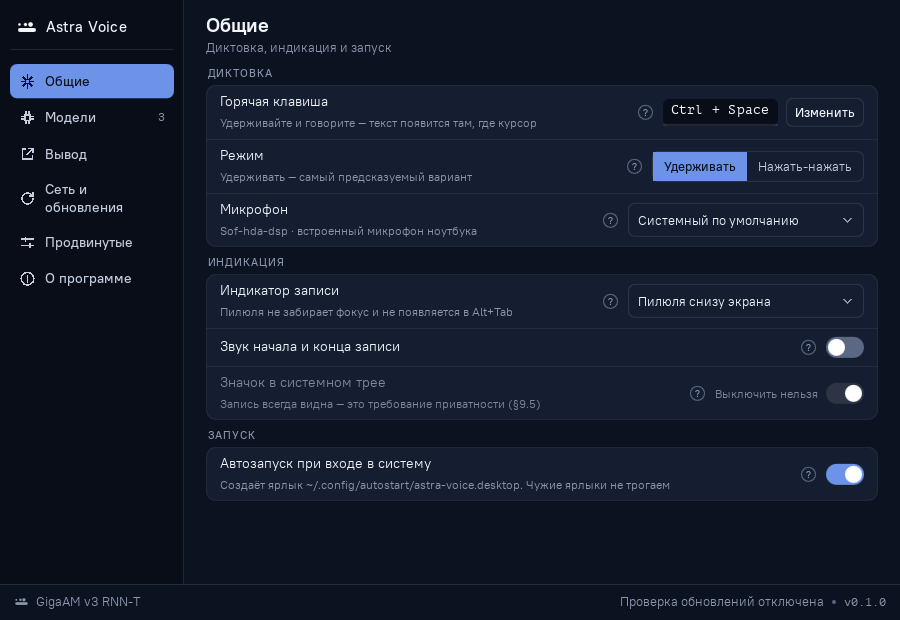
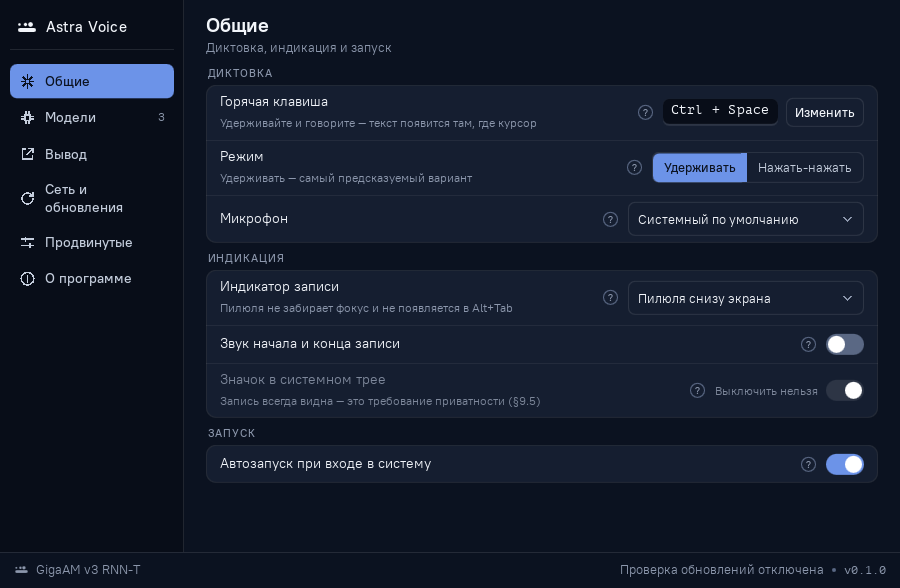
M1: дефекты первого живого показа — скругления чипа клавиши и сегмента, фокус-кольцо сайдбара только для клавиатуры, подписи «Микрофон»/«Автозапуск» убраны (тексты простым языком); PRD экран 5; журнал

diff --git a/qml/components/AvSegmented.qml b/qml/components/AvSegmented.qml
@@ -1,5 +1,7 @@
-// Сегментированный переключатель — design/spec.md §4.3.
-// Высота 30,8; активный сегмент — фон primary; стрелки ← → переключают, кольцо фокуса на всём контроле.
+// Сегментированный переключатель — design/spec.md §4.3, макет `.seg` (_base.py:97).
+// CSS даёт `border-radius:7px; overflow:hidden` — заливка активного сегмента обрезается
+// ПО СКРУГЛЕНИЮ. В QML `clip` режет по прямоугольнику, поэтому крайние сегменты скругляются
+// сами (радиус рамки минус её толщина), а внутренний край выпрямляется накладкой того же цвета.
 import QtQuick 2.15
 import ".."
 
@@ -23,6 +25,7 @@ FocusScope {
         color: Theme.bgSurface
         border.width: Theme.segmentedBorder
         border.color: Theme.border
+        antialiasing: true
         clip: true
         implicitWidth: row.implicitWidth + Theme.segmentedBorder * 2
 
@@ -34,13 +37,19 @@ FocusScope {
                 model: root.options
 
                 Rectangle {
+                    id: segment
+
                     required property int index
                     required property string modelData
 
                     readonly property bool current: index === root.currentIndex
+                    readonly property bool first: index === 0
+                    readonly property bool last: index === root.options.length - 1
 
                     width: text.implicitWidth + Theme.segmentedItemPaddingX * 2
                     height: Theme.segmentedItemH
+                    radius: (first || last) ? Theme.segmentedRadius - Theme.segmentedBorder : 0
+                    antialiasing: true
                     color: current ? Theme.primary
                          : (mouse.containsMouse ? Theme.stateHoverOnSurface : "transparent")
 
@@ -52,16 +61,25 @@ FocusScope {
                         }
                     }
 
+                    // Внутренний край сегмента остаётся прямым — скругляется только внешний.
+                    Rectangle {
+                        width: segment.radius
+                        height: parent.height
+                        x: segment.first ? parent.width - width : 0
+                        color: parent.color
+                        visible: segment.radius > 0 && !(segment.first && segment.last)
+                    }
+
                     Text {
                         id: text
                         anchors.centerIn: parent
-                        text: parent.modelData
+                        text: segment.modelData
                         font.family: Theme.fontUi
                         font.pixelSize: Theme.fontSegmentedSize
-                        font.weight: parent.current ? Font.Medium : Font.Normal
+                        font.weight: segment.current ? Font.Medium : Font.Normal
                         renderType: Text.NativeRendering
                         color: !root.enabled ? Theme.fgDisabled
-                             : (parent.current ? Theme.primaryFg : Theme.segmentedItemFg)
+                             : (segment.current ? Theme.primaryFg : Theme.segmentedItemFg)
                     }
 
                     MouseArea {
@@ -69,10 +87,8 @@ FocusScope {
                         anchors.fill: parent
                         hoverEnabled: true
                         enabled: root.enabled
-                        onClicked: {
-                            root.currentIndex = parent.index;
-                            root.forceActiveFocus();
-                        }
+                        // Фокус мышью не берём: кольцо фокуса — только для клавиатуры (§1.3).
+                        onClicked: root.currentIndex = segment.index
                     }
                 }
             }
@@ -86,6 +102,7 @@ FocusScope {
         color: "transparent"
         border.width: Theme.focusWidth
         border.color: Theme.stateFocusRing
+        antialiasing: true
         visible: root.activeFocus
     }
 }

diff --git a/qml/components/KeyChip.qml b/qml/components/KeyChip.qml
@@ -1,5 +1,8 @@
-// Чип-клавиша («Ctrl + Space») — design/spec.md §4.7.
-// Нижняя граница 2 px читается как физическая клавиша; шрифт — PT Mono (сквозное правило 5).
+// Чип-клавиша («Ctrl + Space») — design/spec.md §4.7, макет `.key` (_base.py:100).
+// CSS: border-radius 6 + border-bottom 2 px — нижняя грань читается как физическая клавиша
+// и СКРУГЛЯЕТСЯ вместе с корпусом. В QML это два скруглённых слоя: нижний цвета `border`,
+// верхний — фон чипа с отступом снизу на толщину грани (рисовать полоску поверх нельзя:
+// она срезала бы нижние углы, дефект «нет скруглений» с живого прогона).
 import QtQuick 2.15
 import ".."
 
@@ -11,7 +14,16 @@ Rectangle {
     implicitHeight: Theme.hotkeyChipHeight
     implicitWidth: label.implicitWidth + Theme.hotkeyChipPaddingX * 2
     radius: Theme.hotkeyChipRadius
-    color: Theme.hotkeyChipBg
+    color: Theme.border
+    antialiasing: true
+
+    Rectangle {
+        anchors.fill: parent
+        anchors.bottomMargin: Theme.borderHotkeyKeyBottom
+        radius: root.radius
+        color: Theme.hotkeyChipBg
+        antialiasing: true
+    }
 
     Text {
         id: label
@@ -23,15 +35,5 @@ Rectangle {
         renderType: Text.NativeRendering
         anchors.horizontalCenter: parent.horizontalCenter
         y: Theme.hotkeyChipPaddingTop
-    }
-
-    // Нижняя грань клавиши: 2 px `border` (component.hotkey-chip.border-bottom).
-    Rectangle {
-        anchors.left: parent.left
-        anchors.right: parent.right
-        anchors.bottom: parent.bottom
-        height: Theme.borderHotkeyKeyBottom
-        radius: root.radius
-        color: Theme.border
     }
 }

diff --git a/qml/components/AvSelect.qml b/qml/components/AvSelect.qml
@@ -35,6 +35,7 @@ ComboBox {
 
     background: Rectangle {
         radius: Theme.selectRadius
+        antialiasing: true
         color: control.enabled ? Theme.bgSurface : Theme.bgSurface2
         border.width: Theme.fieldBorder
         border.color: control.popup.visible ? Theme.selectOpenState : Theme.border
@@ -46,6 +47,7 @@ ComboBox {
             color: "transparent"
             border.width: Theme.focusWidth
             border.color: Theme.stateFocusRing
+            antialiasing: true
             visible: control.visualFocus
         }
     }
@@ -73,6 +75,7 @@ ComboBox {
 
         background: Rectangle {
             radius: Theme.popoverItemRadius
+            antialiasing: true
             color: parent.index === control.currentIndex ? Theme.selectionBg
                  : (parent.hovered ? Theme.stateHoverOnSurface : "transparent")
         }
@@ -117,6 +120,7 @@ ComboBox {
 
         background: Rectangle {
             radius: Theme.popoverRadius
+            antialiasing: true
             color: Theme.bgSurface
             border.width: Theme.fieldBorder
             border.color: Theme.border

diff --git a/qml/sections/General.qml b/qml/sections/General.qml
@@ -47,8 +47,9 @@ Column {
 
         SettingRow {
             width: parent.width
+            // Пояснения нет: техническое имя карты пользователю не нужно.
+            // В M3 сюда пойдёт только человекочитаемое device.description из PulseAudio.
             label: qsTr("Микрофон")
-            sub: qsTr("Sof-hda-dsp · встроенный микрофон ноутбука")
 
             AvSelect {
                 Layout.preferredWidth: 236  // §4.4: типовая ширина списка в строке настройки
@@ -120,7 +121,6 @@ Column {
             width: parent.width
             divider: false
             label: qsTr("Автозапуск при входе в систему")
-            sub: qsTr("Создаёт ярлык ~/.config/autostart/astra-voice.desktop. Чужие ярлыки не трогаем")
             toggle: autostartToggle
 
             AvToggle {

diff --git a/qml/components/SidebarItem.qml b/qml/components/SidebarItem.qml
@@ -30,6 +30,7 @@ FocusScope {
         id: bg
         anchors.fill: parent
         radius: Theme.sidebarItemRadius
+        antialiasing: true
         color: {
             if (root.current)
                 return Theme.primary;
@@ -94,6 +95,7 @@ FocusScope {
         color: "transparent"
         border.width: Theme.focusWidth
         border.color: Theme.stateFocusRing
+        antialiasing: true
         visible: root.activeFocus
     }
 
@@ -101,9 +103,8 @@ FocusScope {
         id: mouse
         anchors.fill: parent
         hoverEnabled: true
-        onClicked: {
-            root.forceActiveFocus();
-            root.activated();
-        }
+        // Фокус мышью НЕ берём: активный пункт — только заливка primary со скруглением
+        // (§1.3, референс), кольцо фокуса появляется лишь при переходе клавиатурой (Tab).
+        onClicked: root.activated()
     }
 }

diff --git a/qml/components/SettingRow.qml b/qml/components/SettingRow.qml
@@ -108,6 +108,7 @@ Item {
             Layout.preferredHeight: Theme.hintSize
             Layout.alignment: Qt.AlignVCenter
             radius: Theme.hintSize / 2
+            antialiasing: true
             color: "transparent"
             border.width: Theme.borderHairline
             border.color: Theme.fgFaint
@@ -130,6 +131,7 @@ Item {
             Layout.preferredHeight: Theme.badgeHeight
             Layout.alignment: Qt.AlignVCenter
             radius: Theme.lockBadgeRadius
+            antialiasing: true
             color: Theme.lockBadgeBg
             visible: root.locked
 

diff --git a/qml/components/AvButton.qml b/qml/components/AvButton.qml
@@ -31,6 +31,7 @@ Button {
 
     background: Rectangle {
         radius: Theme.buttonRadius
+        antialiasing: true
         border.width: control.ghost ? 0 : Theme.buttonBorder
         border.color: control.enabled ? (control.primary ? Theme.primary : Theme.border) : Theme.border
         color: {
@@ -62,6 +63,7 @@ Button {
             color: "transparent"
             border.width: Theme.focusWidth
             border.color: Theme.stateFocusRing
+            antialiasing: true
             visible: control.visualFocus
         }
     }

diff --git a/qml/components/AvToggle.qml b/qml/components/AvToggle.qml
@@ -19,6 +19,7 @@ Switch {
         width: Theme.toggleW
         height: Theme.toggleH
         radius: Theme.toggleRadius
+        antialiasing: true
         color: {
             if (control.locked)
                 return Theme.toggleLockedBg;
@@ -60,6 +61,7 @@ Switch {
             color: "transparent"
             border.width: Theme.focusWidth
             border.color: Theme.stateFocusRing
+            antialiasing: true
             visible: control.visualFocus
         }
     }

diff --git a/qml/components/SettingGroup.qml b/qml/components/SettingGroup.qml
@@ -35,6 +35,7 @@ Column {
         color: Theme.bgSurface
         border.width: Theme.cardBorder
         border.color: Theme.border
+        antialiasing: true
         clip: true
 
         Column {

diff --git a/PRD.md b/PRD.md
@@ -122,7 +122,7 @@ Discovery только техническое.
 1. Пакет `astra-voice_X.Y.Z_amd64.deb` ставится штатно (`apt install ./…`); зависимости — только из репозиториев Astra 1.8 плюс вендоренные python-пакеты внутри пакета; `postinst` **не выходит в сеть** и не запускает GUI.
 2. Модели в пакет не входят. Пакет без моделей ≤ 80 МБ (допущение, проверить прототипом).
 3. Онбординг показывается, если нет ни одной установленной модели **или** не завершён флаг `onboarding_done`. Возврат — из настроек «Пройти настройку заново».
-4. Экраны: **(1) Приветствие и сеть** — язык интерфейса (ru/en, авто по `LANG`) и два тумблера «Проверять обновления утилиты» / «Проверять обновления моделей» (подпись: не чаще раза в сутки; хосты huggingface.co, github.com). **Оба тумблера пусты по умолчанию во всех профилях** — пользователь включает сам; пока не включил — утилита в сеть не выходит (кроме явного «Скачать» на экране 2). Требования заказчика №1/№4 (проверка при запуске) действуют после явного включения. Если `policy.conf` задаёт `offline=true`/`profile=secure`, тумблеры показаны заблокированными («Задано администратором»). **(2) Модель** — рекомендованная карточка сверху (GigaAM v3 RNN-T), остальные по размеру; кнопки «Скачать» (показывает хост и объём) и «Установить из файла/папки…»; шаг нельзя пропустить без модели. **(3) Горячая клавиша** — предзаполнена **`Ctrl+Space`, режим «удерживать» (push-to-talk)**; поле захвата другой комбинации, переключатель «удерживать / нажать-нажать»; занятость проверяется живым `XGrabKey`-пробником **до** сохранения (F2.2): конфликт с шорткатом KDE — предупреждение с именем действия, не запрет; `BadAccess` от другой программы — сообщение и выбор из свободных комбинаций по F2-исключениям. **(3a) «Astra Voice заменяет Handy»** — показывается перед (3) только если обнаружен запущенный Handy (процесс `handy` или юнит `app-Handy@autostart.service`): объясняет, что обе утилиты держат `Ctrl+Space`, даёт инструкцию отключить хоткей в Handy или его автозапуск (ярлыки `handy.desktop`/`Handy.desktop` в `~/.config/autostart`), кнопки «Проверить снова» (повторный пробник) и «Пропустить»; в Handy утилита **ничего не меняет сама** — P1 (Should v0.1, Must v0.2; US-1.9). **(4) Проверка микрофона** — выбор устройства, живой индикатор уровня, кнопка «Сказать тестовую фразу» → распознанный текст на экране (без вставки). **(5) Автозапуск** — тумблер (по умолчанию включён, с текстом, что именно создаётся) и «Готово».
+4. Экраны: **(1) Приветствие и сеть** — язык интерфейса (ru/en, авто по `LANG`) и два тумблера «Проверять обновления утилиты» / «Проверять обновления моделей» (подпись: не чаще раза в сутки; хосты huggingface.co, github.com). **Оба тумблера пусты по умолчанию во всех профилях** — пользователь включает сам; пока не включил — утилита в сеть не выходит (кроме явного «Скачать» на экране 2). Требования заказчика №1/№4 (проверка при запуске) действуют после явного включения. Если `policy.conf` задаёт `offline=true`/`profile=secure`, тумблеры показаны заблокированными («Задано администратором»). **(2) Модель** — рекомендованная карточка сверху (GigaAM v3 RNN-T), остальные по размеру; кнопки «Скачать» (показывает хост и объём) и «Установить из файла/папки…»; шаг нельзя пропустить без модели. **(3) Горячая клавиша** — предзаполнена **`Ctrl+Space`, режим «удерживать» (push-to-talk)**; поле захвата другой комбинации, переключатель «удерживать / нажать-нажать»; занятость проверяется живым `XGrabKey`-пробником **до** сохранения (F2.2): конфликт с шорткатом KDE — предупреждение с именем действия, не запрет; `BadAccess` от другой программы — сообщение и выбор из свободных комбинаций по F2-исключениям. **(3a) «Astra Voice заменяет Handy»** — показывается перед (3) только если обнаружен запущенный Handy (процесс `handy` или юнит `app-Handy@autostart.service`): объясняет, что обе утилиты держат `Ctrl+Space`, даёт инструкцию отключить хоткей в Handy или его автозапуск (ярлыки `handy.desktop`/`Handy.desktop` в `~/.config/autostart`), кнопки «Проверить снова» (повторный пробник) и «Пропустить»; в Handy утилита **ничего не меняет сама** — P1 (Should v0.1, Must v0.2; US-1.9). **(4) Проверка микрофона** — выбор устройства, живой индикатор уровня, кнопка «Сказать тестовую фразу» → распознанный текст на экране (без вставки). **(5) Автозапуск** — тумблер (по умолчанию включён; без технических пояснений о ярлыках — решение заказчика 2026-09-09) и «Готово».
 5. Каждый экран, кроме (2), можно пропустить; пропущенное доступно в настройках.
 6. По завершении — окно сворачивается в трей, показывается системное уведомление «Astra Voice готов: зажмите <хоткей> и говорите».
 **Исключения.** Нет сети на шаге 2 → карточки «Скачать» неактивны с текстом «Нет доступа к <хост>», активен «Установить из файла»; обрыв загрузки → докачка (F7); микрофон не найден → F6; ЗПС блокирует запуск воркера → текст «Часть компонентов не подписана для ЗПС — обратитесь к администратору (инструкция)».

diff --git a/decisions/log.md b/decisions/log.md
@@ -3,6 +3,23 @@
 > Что решили и **почему**. Новые записи — сверху. Пишет Юрка после явного «да» человека
 > (скилл `decision-log`).
 
+## 2026-09-09 — M1: первый живой показ окна заказчику — четыре замечания (дефекты + продуктовое решение)
+- Контекст: заказчик поставил `astra-voice 0.1.0~m1` (`sudo apt install`), CI e03d6ae зелёный 5/5; Developer запустил окно на
+  реальном экране (допуск «Да, запускай»). Заказчик смотрел глазами и написал в чат (16:45–16:55).
+- Замечания и решения:
+  1. **Нет скруглений** у чипа `Ctrl + Space` и сегмента «Удерживать/Нажать-нажать» (есть и на снимке из изолированного X) —
+     дефект QML → M1-C правит по токенам/макету, все контролы правой колонки — `radius` от токена.
+  2. **Мерцает экран при наведении на сайдбар** — Debugger ищет причину (перерисовка всего окна / render loop на Intel+KWin);
+     живой шаг на `:0` — только после отдельного «ок».
+  3. **Рамка вокруг активного пункта сайдбара** — стандартный focus-ring стиля Default → убрать, активный пункт по макету.
+  4. **Продуктовое (заказчик):** подпись под «Автозапуск при входе в систему» («Создаёт ярлык ~/.config/autostart/…») —
+     **убрать**: техническая, обычному пользователю не нужна. PRD 0.6 экран (5) «с текстом, что именно создаётся» — снято.
+     Общее правило на будущее: тексты интерфейса — простым языком, без путей/имён файлов (см. память Юрки).
+  5. **Продуктовое (заказчик, 16:58):** подпись «Sof-hda-dsp · встроенный микрофон ноутбука» у строки «Микрофон» — убрать;
+     в M3 показывать только `device.description` PulseAudio (без имён ALSA-карт/индексов).
+- Гейт: — (приёмка M1 живьём; дефекты → до закрытия M1 DoD).
+- Последствия: после правок — пересборка `.deb` и повторная установка у заказчика; DesignReviewer сверяет обновлённые снимки.
+
 ## 2026-09-09 — M1: сборка .deb в host-режиме, шрифты PT → Recommends, docker-группа не выдаётся
 - Контекст: M1-B собрал `astra-voice_0.1.0~m1_amd64.deb` (13 МБ, ELF 3/3, GLIBC ≤ 2.27, 0 isoc23) через `dpkg-deb` — docker
   на машине заказчика без прав (нет группы docker), podman отсутствует, `debhelper`/`lintian` в системе нет.
